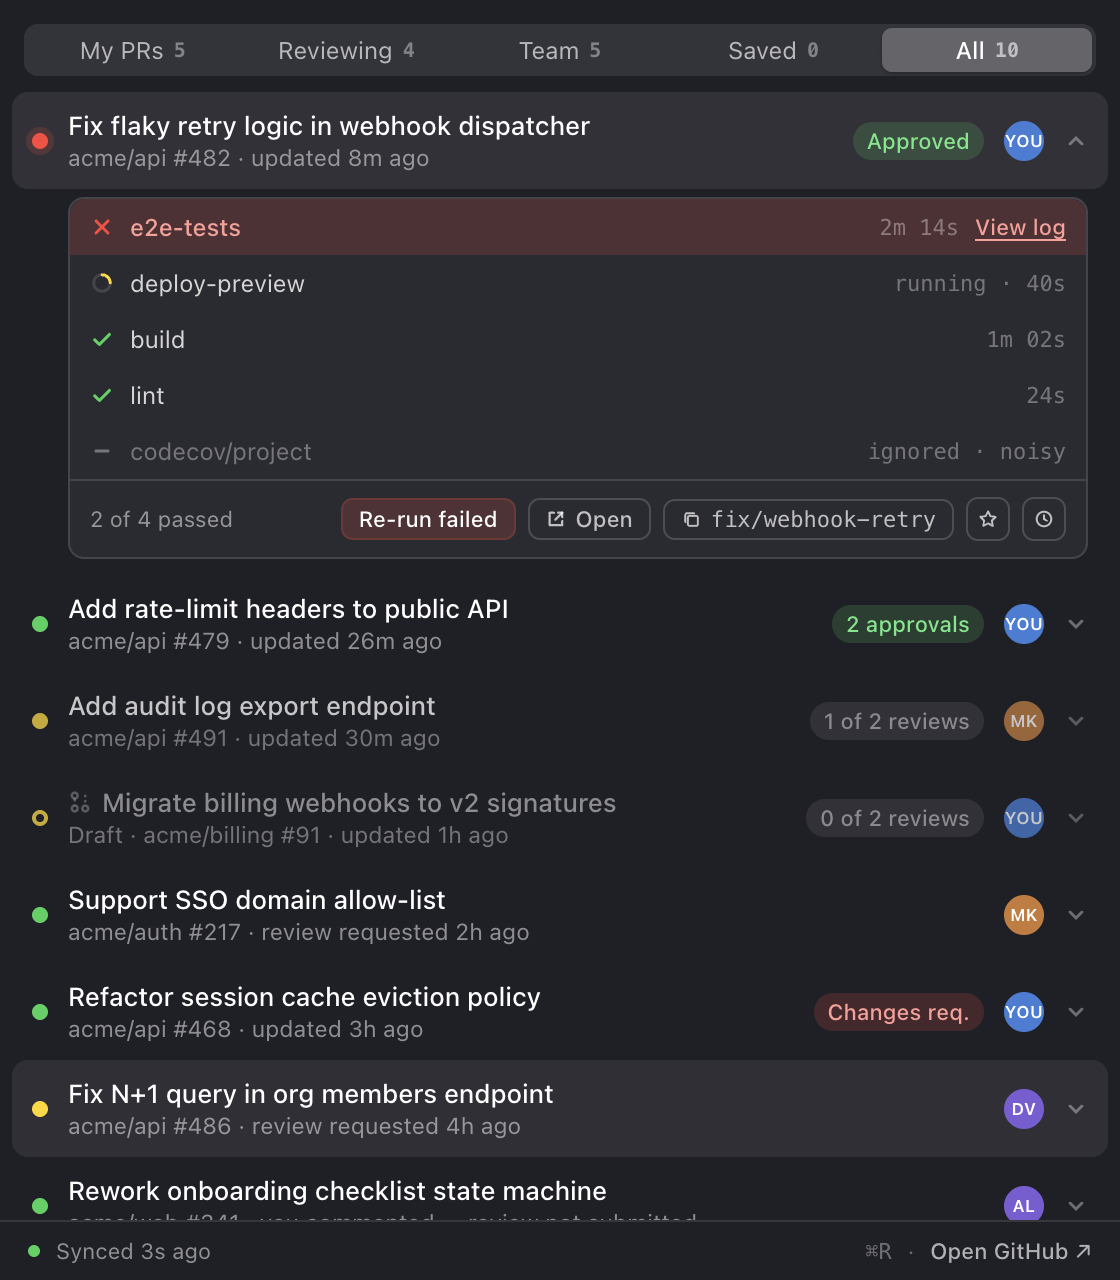
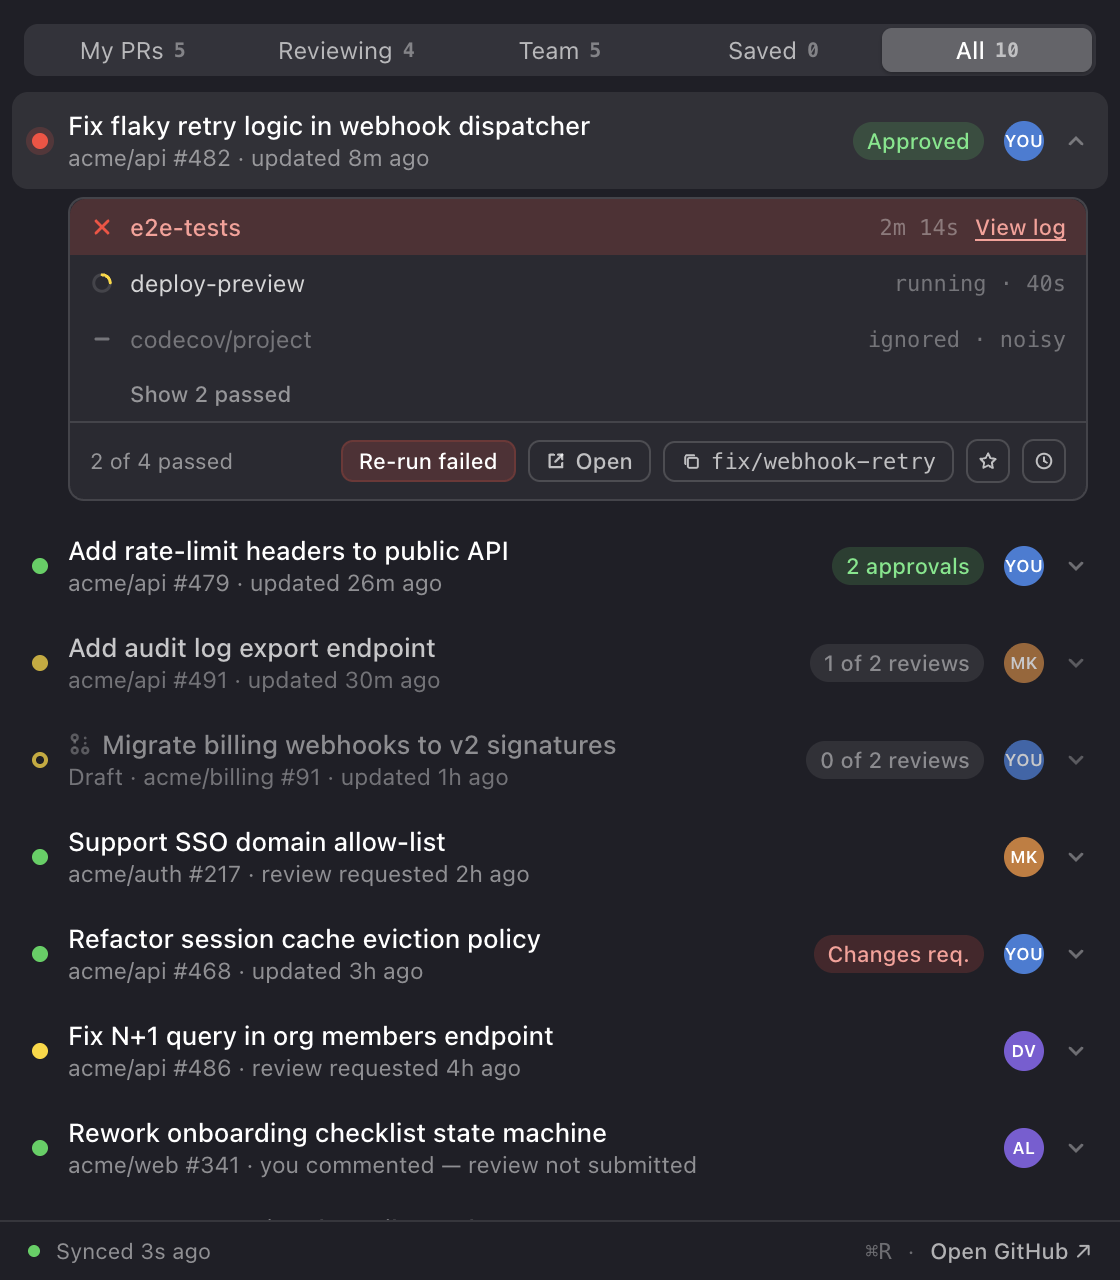
Collapse passed checks behind a toggle; paint panel tint over vibrancy
Big pipelines (20+ checks) drowned the failures — the breakdown now shows
failed/running/queued/ignored with a 'Show N passed' toggle. The popover
paints the design's panel tint over the native blur (the settings window
already did), fixing washed-out appearance and making the forced dark/light
theme read correctly over any wallpaper. v0.1.1.

diff --git a/src/renderer/src/styles/app.css b/src/renderer/src/styles/app.css
@@ -22,15 +22,12 @@ body,
 body {
   font-family: -apple-system, BlinkMacSystemFont, 'Segoe UI', system-ui, sans-serif;
   color: var(--txt);
-  /* transparent so native vibrancy shows through; opaque fallback set via .no-vibrancy */
-  background: transparent;
+  /* the design's panel tint painted OVER the native vibrancy blur — without it
+     the wallpaper bleeds through and washes out the theme */
+  background: var(--panel);
   -webkit-font-smoothing: antialiased;
   user-select: none;
   overflow: hidden;
-}
-
-body.no-vibrancy {
-  background: var(--panel);
 }
 
 /* Respect Reduce Transparency: paint an opaque panel over the vibrancy */
@@ -346,6 +343,22 @@ body.no-vibrancy {
   border: none;
   font-family: inherit;
   padding: 0;
+}
+
+.show-passed {
+  font-size: 11px;
+  font-weight: 500;
+  font-family: inherit;
+  color: var(--txt3);
+  background: none;
+  border: none;
+  text-align: left;
+  padding: 7px 10px 7px 30px;
+  cursor: pointer;
+}
+
+.show-passed:hover {
+  color: var(--txt);
 }
 
 .action-strip {

diff --git a/src/renderer/src/components/PRRow.tsx b/src/renderer/src/components/PRRow.tsx
@@ -1,4 +1,4 @@
-import type { JSX, MouseEvent } from 'react'
+import { useState, type JSX, type MouseEvent } from 'react'
 import type { ClassifiedCheck, PRSnapshot, SnoozeMode } from '../../../shared/types'
 import { metaFor, pillFor } from '../../../shared/present'
 import { Avatar } from './Avatar'
@@ -109,6 +109,9 @@ function ExpandedPanel({
   snoozeMenuOpen: boolean
   actions: RowActions
 }): JSX.Element {
+  // big CI pipelines drown the signal — passed checks collapse behind a toggle
+  const [showPassed, setShowPassed] = useState(false)
+
   const nonIgnored = pr.checks.filter((c) => !c.ignored)
   const okCount = nonIgnored.filter((c) => c.status === 'ok').length
   const hasFail = pr.checks.some((c) => c.status === 'fail' && !c.ignored)
@@ -117,6 +120,10 @@ function ExpandedPanel({
   const order = (c: ClassifiedCheck): number =>
     c.ignored ? 4 : { fail: 0, running: 1, queued: 2, ok: 3 }[c.status]
   const sortedChecks = pr.checks.slice().sort((a, b) => order(a) - order(b))
+  const passedCount = sortedChecks.filter((c) => c.status === 'ok' && !c.ignored).length
+  const visibleChecks = showPassed
+    ? sortedChecks
+    : sortedChecks.filter((c) => !(c.status === 'ok' && !c.ignored))
 
   const stop = (fn: () => void) => (e: MouseEvent) => {
     e.stopPropagation()
@@ -125,9 +132,20 @@ function ExpandedPanel({
 
   return (
     <div className="inset">
-      {sortedChecks.map((c) => (
+      {visibleChecks.map((c) => (
         <CheckRow key={c.name} check={c} onViewLog={() => actions.openLog(pr.key, c.name)} />
       ))}
+      {passedCount > 0 && (
+        <button
+          className="show-passed"
+          onClick={(e) => {
+            e.stopPropagation()
+            setShowPassed((v) => !v)
+          }}
+        >
+          {showPassed ? 'Hide passed checks' : `Show ${passedCount} passed`}
+        </button>
+      )}
       <div className="action-strip">
         <span className="check-summary">
           {pr.checksLoaded